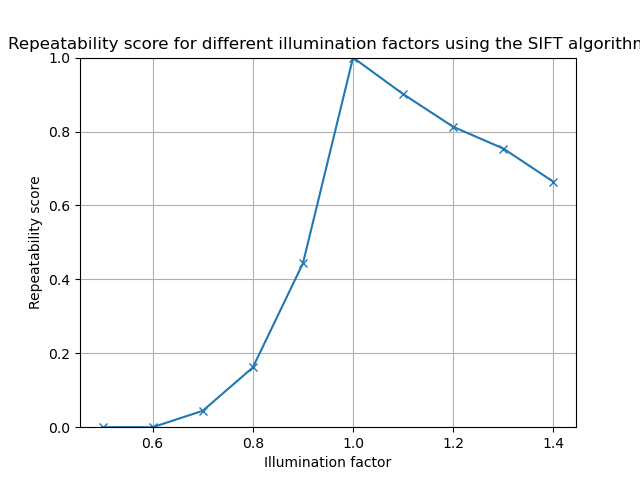
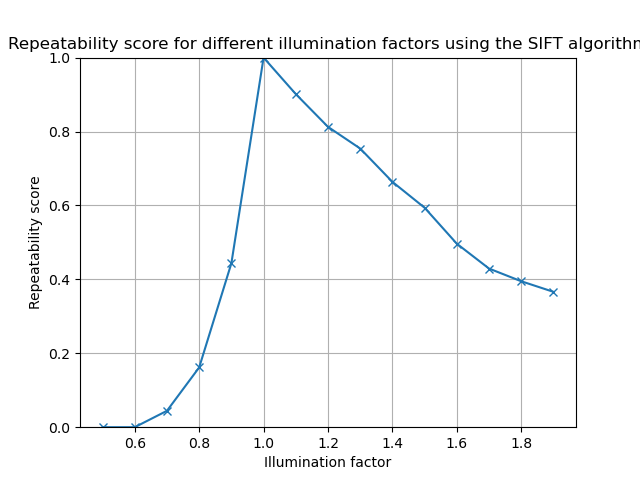
increased range for illumination

diff --git a/project1/exploration.py b/project1/exploration.py
@@ -237,7 +237,7 @@ surf_kp, _ = surf.detectAndCompute(img, None)
 rotations = np.arange(0, 361, 15)
 m = 1.2
 scale_factors = [np.power(m, exp) for exp in np.arange(0, 9)]
-illumination_factors = np.arange(0.5, 1.5, 0.1)
+illumination_factors = np.arange(0.5, 2, 0.1)
 
 # %%
 rotation_scores_sift = []
